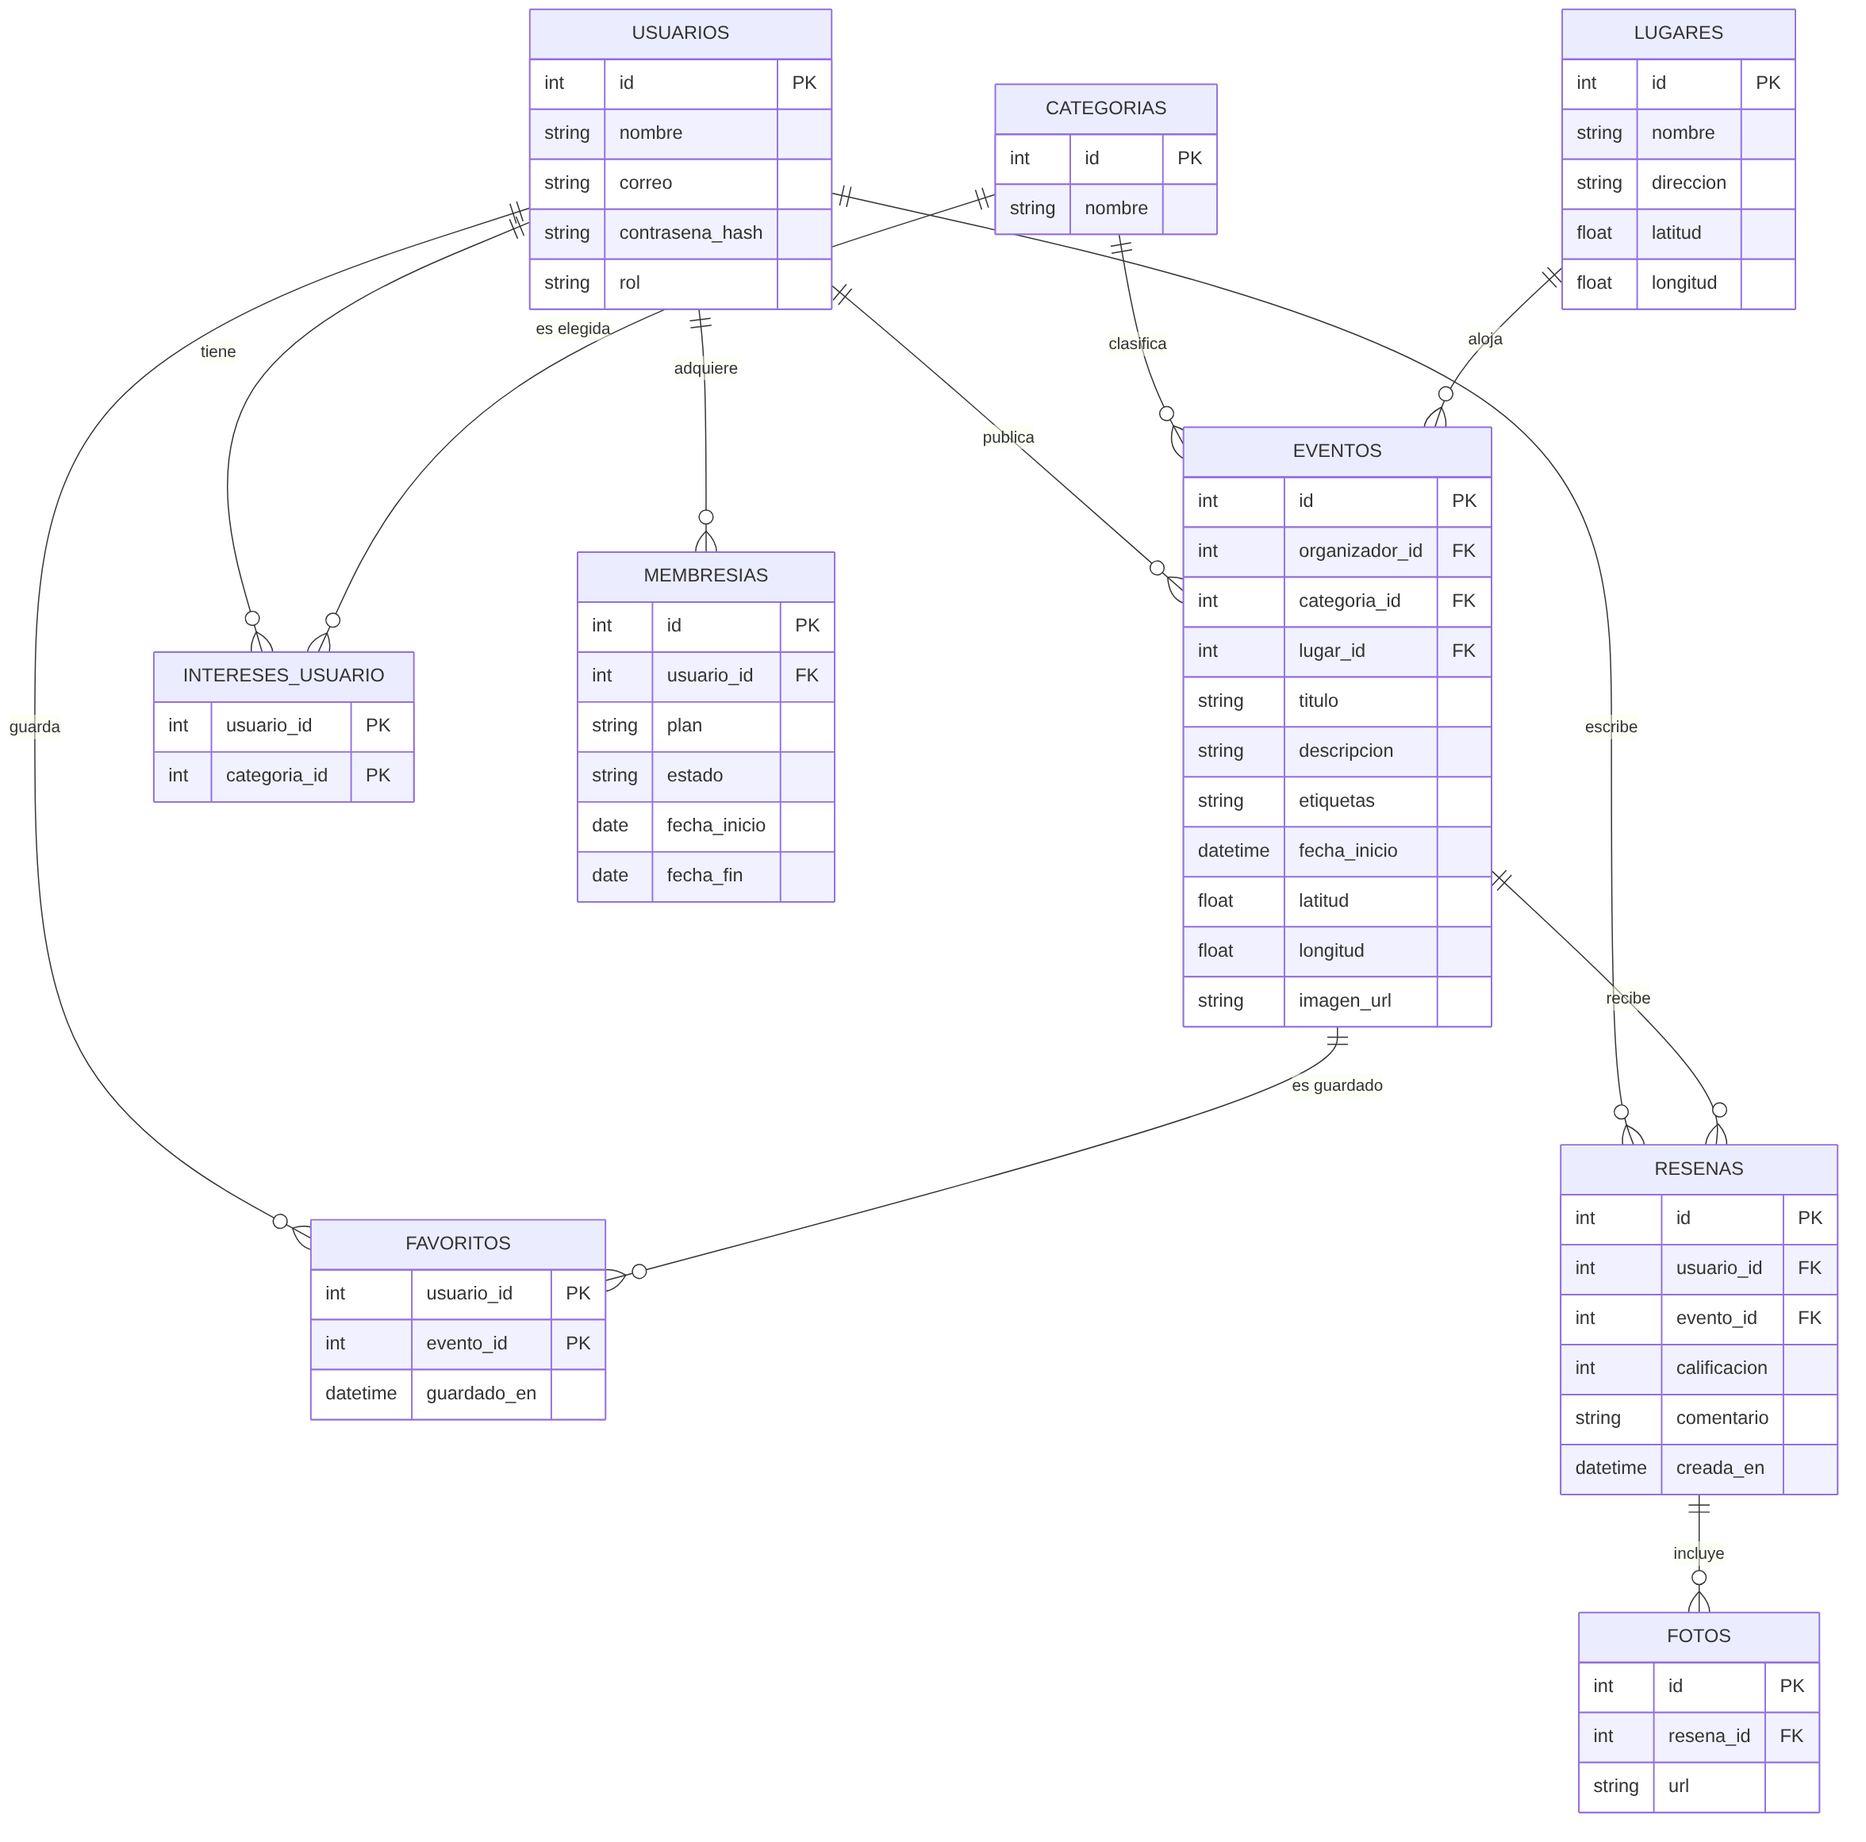
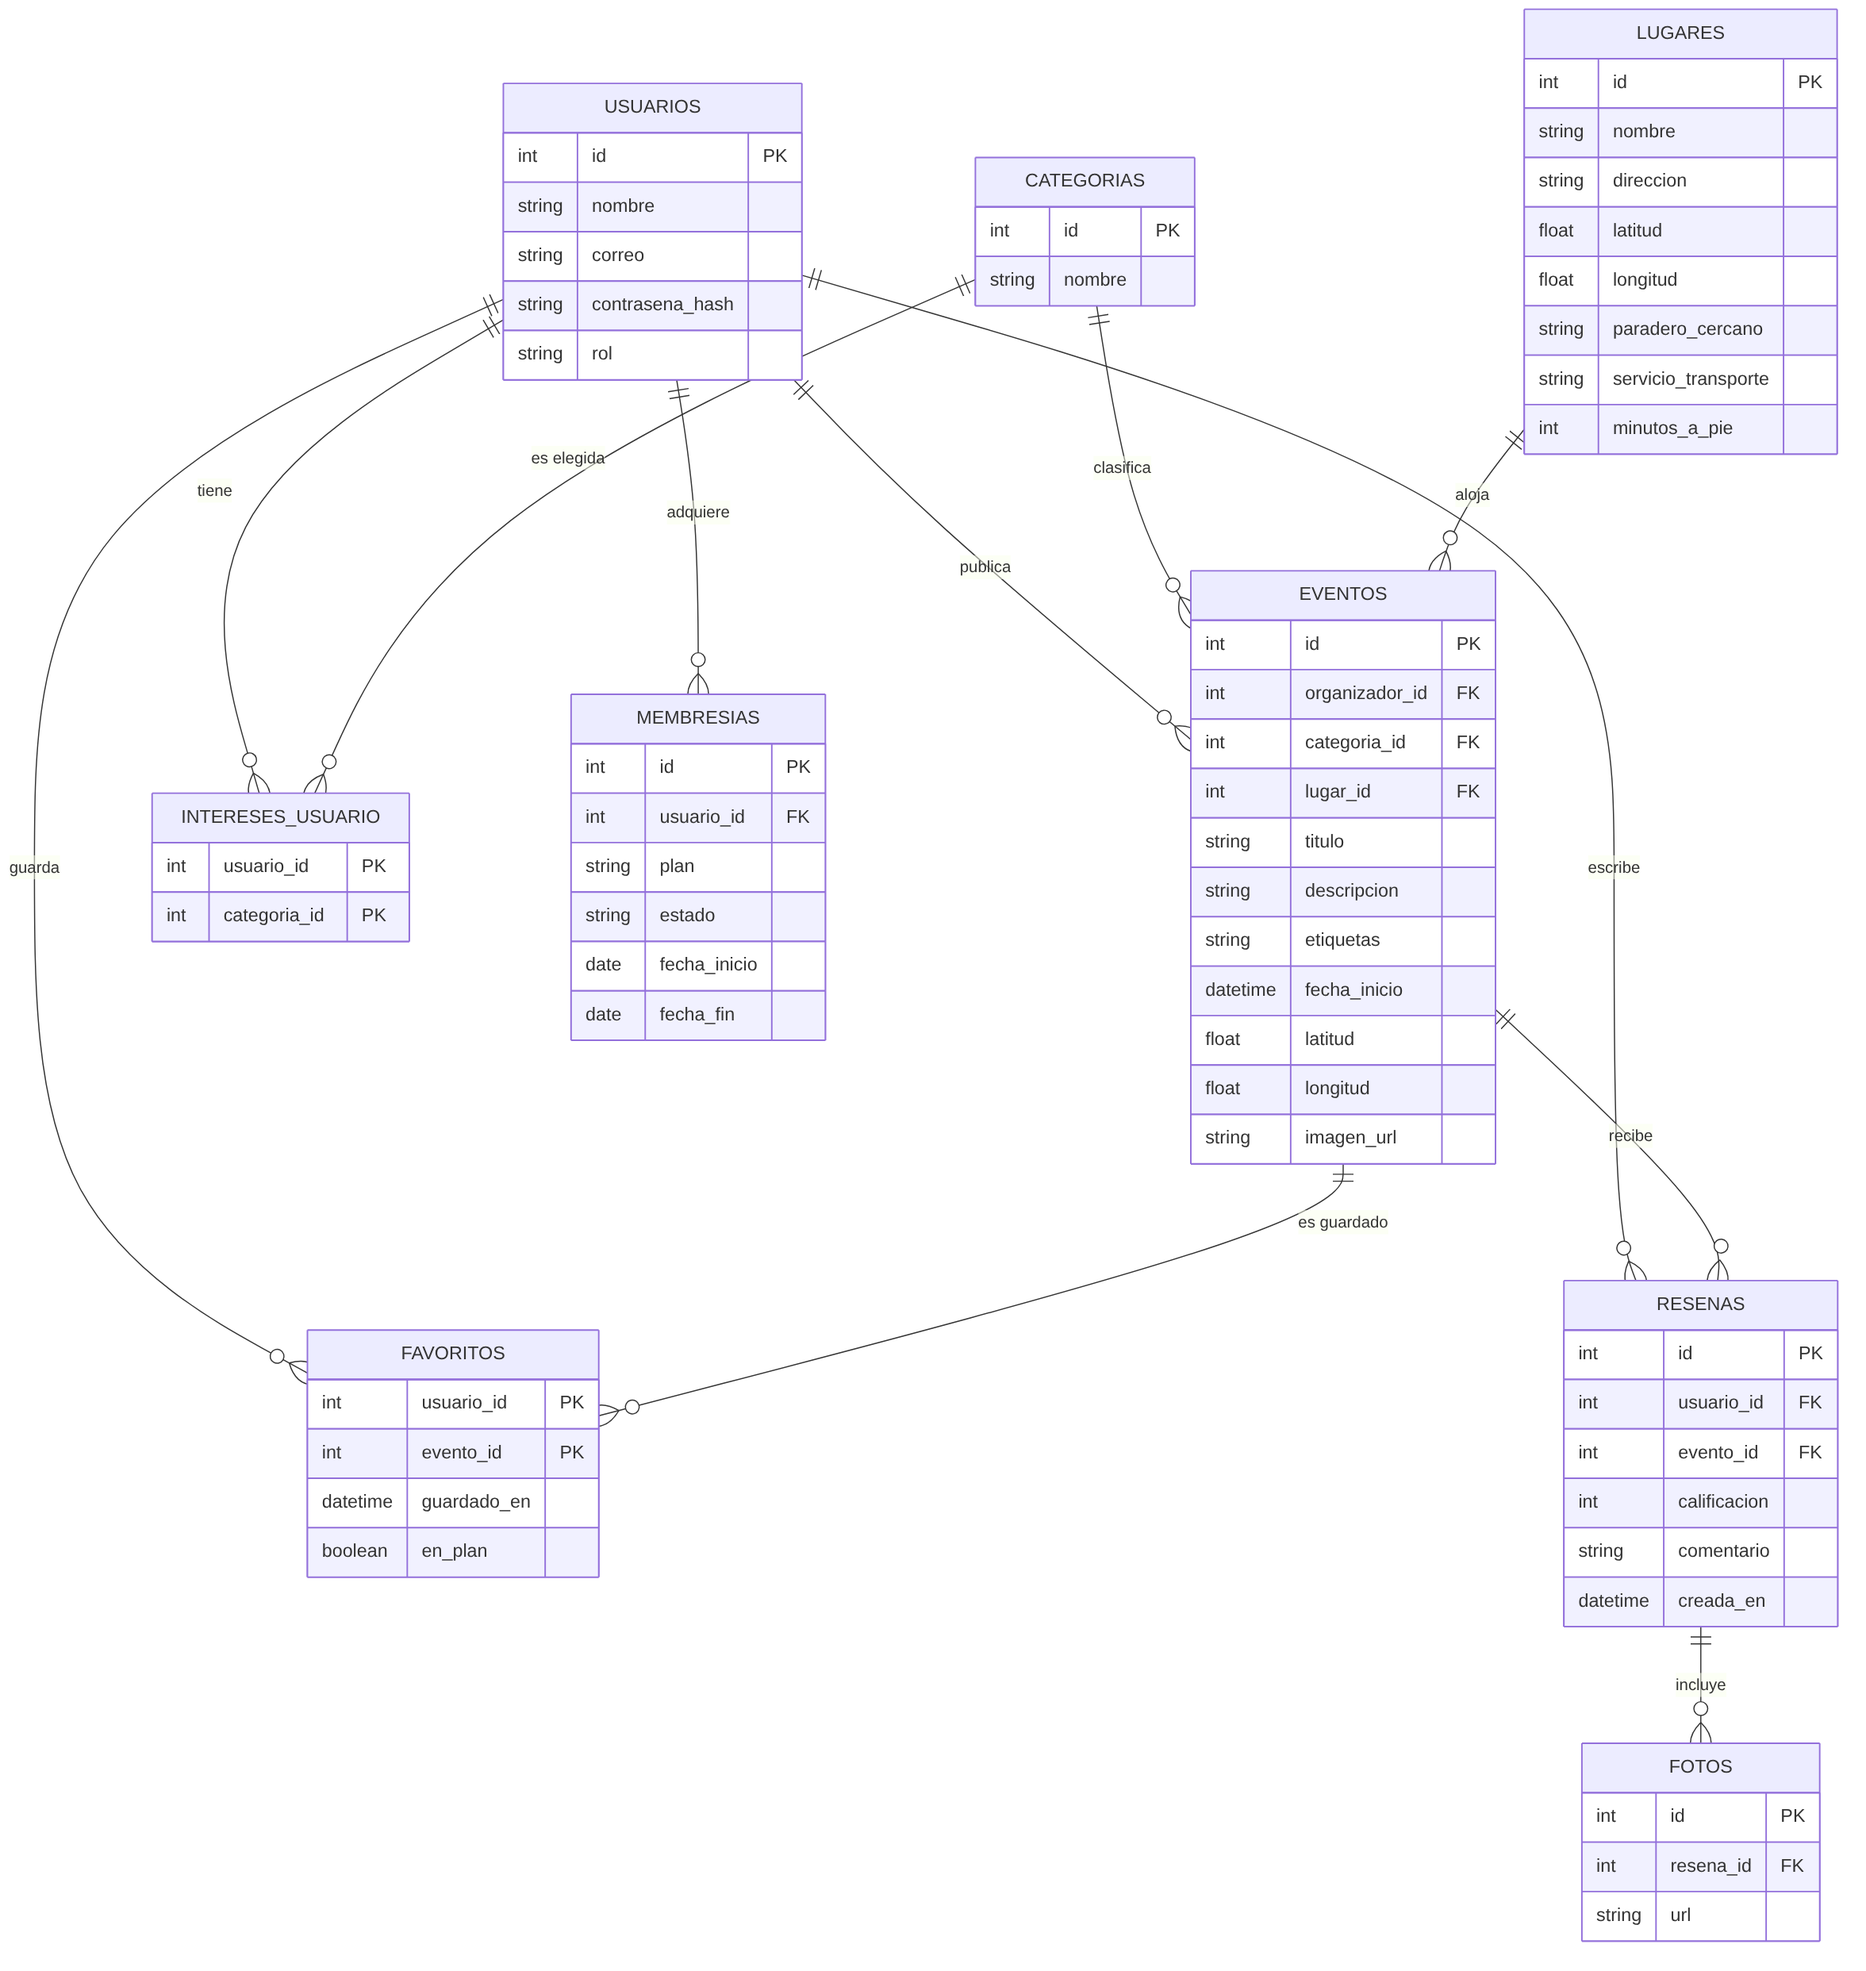
feat(api): ficha de transporte en lugares y plan en favoritos
Migracion que solo agrega columnas: paradero_cercano, servicio_transporte y
minutos_a_pie en lugares, y en_plan en favoritos. El seed llena la ficha de
los 8 lugares (datos aproximados).

diff --git a/api/prisma/seed.ts b/api/prisma/seed.ts
@@ -34,7 +34,7 @@ const categorias = [
   'Cultura general',
 ];
 
-// Coordenadas aproximadas: verificar antes de usarlas en producción
+// Coordenadas y ficha de transporte aproximadas: verificar antes de usarlas en producción
 const lugares = [
   {
     nombre: 'Teatro Municipal de Lima',
@@ -42,6 +42,9 @@ const lugares = [
     distrito: 'Cercado de Lima',
     latitud: -12.0471,
     longitud: -77.036,
+    paraderoCercano: 'Estación Jirón de la Unión',
+    servicioTransporte: 'Metropolitano',
+    minutosAPie: 6,
   },
   {
     nombre: 'Museo de Arte de Lima (MALI)',
@@ -49,6 +52,9 @@ const lugares = [
     distrito: 'Cercado de Lima',
     latitud: -12.0605,
     longitud: -77.0372,
+    paraderoCercano: 'Estación Central',
+    servicioTransporte: 'Metropolitano',
+    minutosAPie: 5,
   },
   {
     nombre: 'Parque de la Reserva',
@@ -56,6 +62,9 @@ const lugares = [
     distrito: 'Cercado de Lima',
     latitud: -12.0703,
     longitud: -77.0339,
+    paraderoCercano: 'Estación Estadio Nacional',
+    servicioTransporte: 'Metropolitano',
+    minutosAPie: 5,
   },
   {
     nombre: 'Gran Teatro Nacional',
@@ -63,6 +72,9 @@ const lugares = [
     distrito: 'San Borja',
     latitud: -12.0865,
     longitud: -77.001,
+    paraderoCercano: 'Estación La Cultura',
+    servicioTransporte: 'Metro de Lima · Línea 1',
+    minutosAPie: 6,
   },
   {
     nombre: 'Parque Kennedy',
@@ -70,6 +82,9 @@ const lugares = [
     distrito: 'Miraflores',
     latitud: -12.1211,
     longitud: -77.0296,
+    paraderoCercano: 'Estación Ricardo Palma',
+    servicioTransporte: 'Metropolitano',
+    minutosAPie: 9,
   },
   {
     nombre: 'Centro Cultural Británico',
@@ -77,6 +92,9 @@ const lugares = [
     distrito: 'Miraflores',
     latitud: -12.1219,
     longitud: -77.0285,
+    paraderoCercano: 'Estación Benavides',
+    servicioTransporte: 'Metropolitano',
+    minutosAPie: 10,
   },
   {
     nombre: 'Bajada de Baños',
@@ -84,6 +102,9 @@ const lugares = [
     distrito: 'Barranco',
     latitud: -12.1495,
     longitud: -77.0228,
+    paraderoCercano: 'Estación Bulevar',
+    servicioTransporte: 'Metropolitano',
+    minutosAPie: 7,
   },
   {
     nombre: 'Mercado N.º 1 de Surquillo',
@@ -91,6 +112,9 @@ const lugares = [
     distrito: 'Surquillo',
     latitud: -12.1129,
     longitud: -77.0257,
+    paraderoCercano: 'Estación Ricardo Palma',
+    servicioTransporte: 'Metropolitano',
+    minutosAPie: 3,
   },
 ];
 

diff --git a/docs/modelo-datos.md b/docs/modelo-datos.md
@@ -30,14 +30,17 @@ Las categorías también son los intereses de los usuarios (géneros, subcultura
 
 ## Lugar (`lugares`)
 
-| Campo     | Tipo   | Notas               |
-| --------- | ------ | ------------------- |
-| id        | Int    | PK, autoincremental |
-| nombre    | String |                     |
-| direccion | String |                     |
-| distrito  | String |                     |
-| latitud   | Float  |                     |
-| longitud  | Float  |                     |
+| Campo              | Tipo    | Notas                                                                     |
+| ------------------ | ------- | ------------------------------------------------------------------------- |
+| id                 | Int     | PK, autoincremental                                                       |
+| nombre             | String  |                                                                           |
+| direccion          | String  |                                                                           |
+| distrito           | String  |                                                                           |
+| latitud            | Float   |                                                                           |
+| longitud           | Float   |                                                                           |
+| paraderoCercano    | String? | Opcional. Estación o paradero más cercano, por ejemplo "Estación Bulevar" |
+| servicioTransporte | String? | Opcional. Por ejemplo "Metropolitano" o "Metro de Lima · Línea 1"         |
+| minutosAPie        | Int?    | Opcional. Minutos caminando desde el paradero                             |
 
 **Relaciones:** aloja muchos `Evento`. No se puede borrar un lugar que tenga eventos.
 
@@ -66,11 +69,12 @@ Las categorías también son los intereses de los usuarios (géneros, subcultura
 
 ## Favorito (`favoritos`)
 
-| Campo      | Tipo     | Notas                      |
-| ---------- | -------- | -------------------------- |
-| usuarioId  | Int      | PK compuesta, FK → Usuario |
-| eventoId   | Int      | PK compuesta, FK → Evento  |
-| guardadoEn | DateTime | Fecha en que se guardó     |
+| Campo      | Tipo     | Notas                                             |
+| ---------- | -------- | ------------------------------------------------- |
+| usuarioId  | Int      | PK compuesta, FK → Usuario                        |
+| eventoId   | Int      | PK compuesta, FK → Evento                         |
+| guardadoEn | DateTime | Fecha en que se guardó                            |
+| enPlan     | Boolean  | Si está en el plan de salida. Por defecto `false` |
 
 ## InteresUsuario (`intereses_usuario`)
 
@@ -123,7 +127,7 @@ La migración inicial activa RLS (Row Level Security) en todas las tablas. Así 
 
 ## Datos de ejemplo (seed)
 
-`npm run db:seed` crea 15 categorías, 8 lugares de Lima (coordenadas aproximadas), 30 eventos ficticios con fechas en los próximos 30 días, 1 administrador (`ADMIN_EMAIL` / `ADMIN_PASSWORD`) y 2 organizadores de prueba (`organizador1@runago.test` y `organizador2@runago.test`).
+`npm run db:seed` crea 15 categorías, 8 lugares de Lima (coordenadas y ficha de transporte aproximadas), 30 eventos ficticios con fechas en los próximos 30 días, 1 administrador (`ADMIN_EMAIL` / `ADMIN_PASSWORD`) y 2 organizadores de prueba (`organizador1@runago.test` y `organizador2@runago.test`).
 
 Se puede correr varias veces sin duplicar datos. La contraseña de los organizadores sale de `ORGANIZADOR_PASSWORD` o, si no existe, se genera al azar y se muestra una sola vez en la consola, al crearlos.
 
